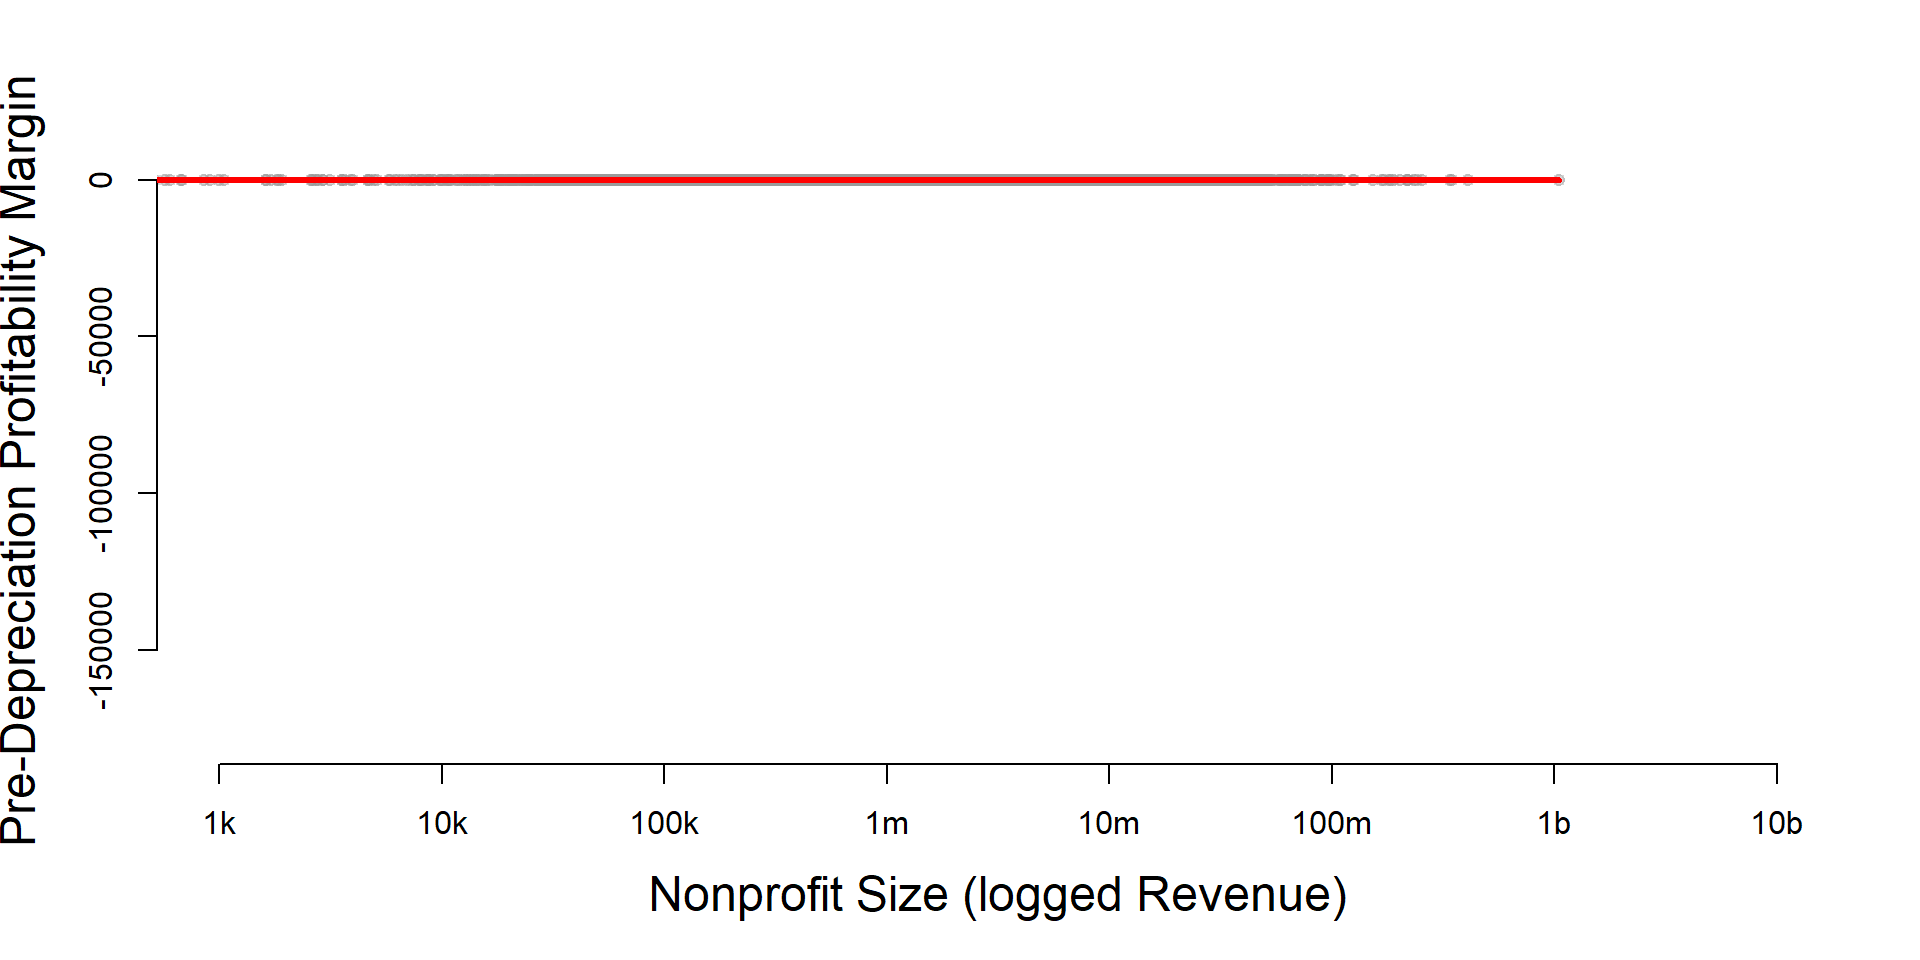
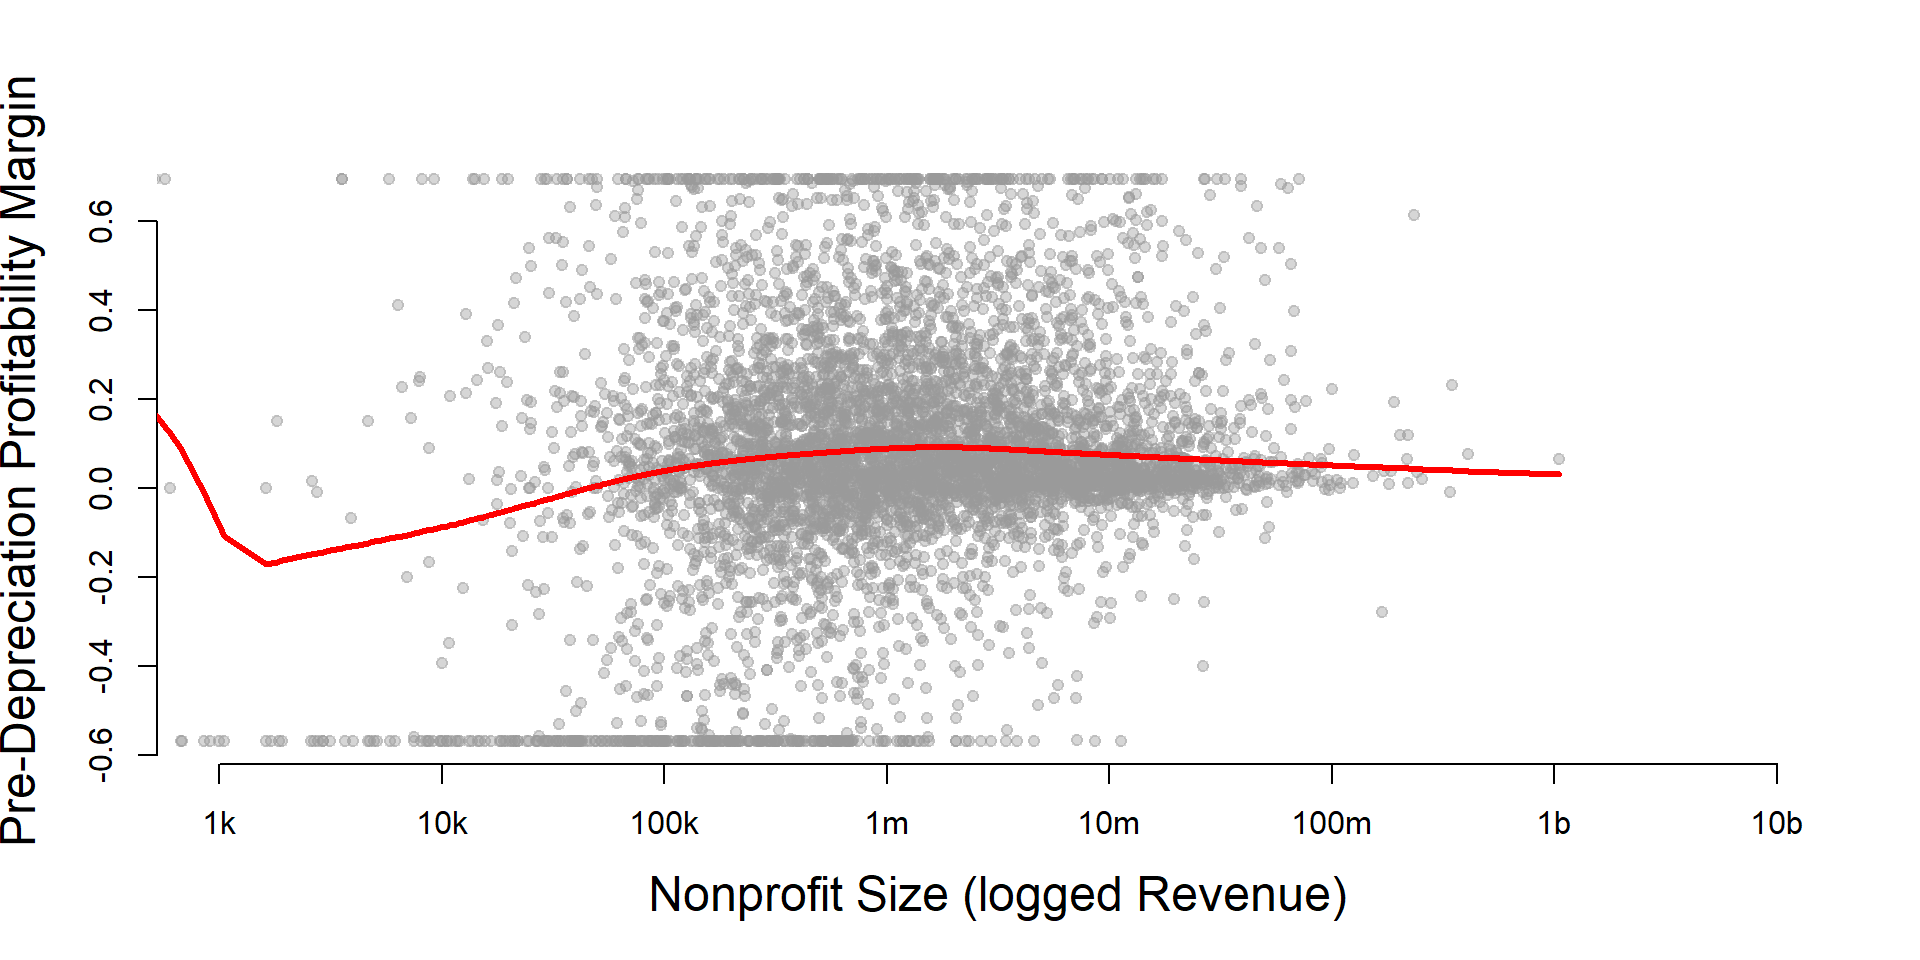
Updated winsorization

diff --git a/metric-08-pre-depreciation-profitability-margin.html b/metric-08-pre-depreciation-profitability-margin.html
@@ -569,10 +569,8 @@ div.tocify {
 <a class="sourceLine" id="cb3-25" title="25"></a>
 <a class="sourceLine" id="cb3-26" title="26"><span class="co"># WINSORIZATION AT 5th and 95th PERCENTILES</span></a>
 <a class="sourceLine" id="cb3-27" title="27"></a>
-<a class="sourceLine" id="cb3-28" title="28">core2<span class="op">$</span>pred_profitmargin[ core2<span class="op">$</span>pred_profitmargin <span class="op">&lt;</span><span class="st"> </span>x<span class="fl">.01</span> ] &lt;-<span class="st"> </span>x<span class="fl">.01</span></a>
-<a class="sourceLine" id="cb3-29" title="29"><span class="co">## Error in eval(expr, envir, enclos): object &#39;x.01&#39; not found</span></a>
-<a class="sourceLine" id="cb3-30" title="30">core2<span class="op">$</span>pred_profitmargin[ core2<span class="op">$</span>pred_profitmargin <span class="op">&gt;</span><span class="st"> </span>x<span class="fl">.99</span> ] &lt;-<span class="st"> </span>x<span class="fl">.99</span></a>
-<a class="sourceLine" id="cb3-31" title="31"><span class="co">## Error in eval(expr, envir, enclos): object &#39;x.99&#39; not found</span></a></code></pre></div>
+<a class="sourceLine" id="cb3-28" title="28">core2<span class="op">$</span>pred_profitmargin[ core2<span class="op">$</span>pred_profitmargin <span class="op">&lt;</span><span class="st"> </span>x<span class="fl">.05</span> ] &lt;-<span class="st"> </span>x<span class="fl">.05</span></a>
+<a class="sourceLine" id="cb3-29" title="29">core2<span class="op">$</span>pred_profitmargin[ core2<span class="op">$</span>pred_profitmargin <span class="op">&gt;</span><span class="st"> </span>x<span class="fl">.95</span> ] &lt;-<span class="st"> </span>x<span class="fl">.95</span></a></code></pre></div>
 </div>
 <div id="metric-scope" class="section level2">
 <h2>Metric Scope</h2>
@@ -651,7 +649,7 @@ St. Dev.
 Pre-Depreciation Profitability Margin
 </td>
 <td>
--179,195
+-1
 </td>
 <td>
 -0
@@ -660,16 +658,16 @@ Pre-Depreciation Profitability Margin
 0
 </td>
 <td>
--37
+0
 </td>
 <td>
 0
 </td>
 <td>
-67
+1
 </td>
 <td>
-2,366
+0
 </td>
 </tr>
 <tr>
